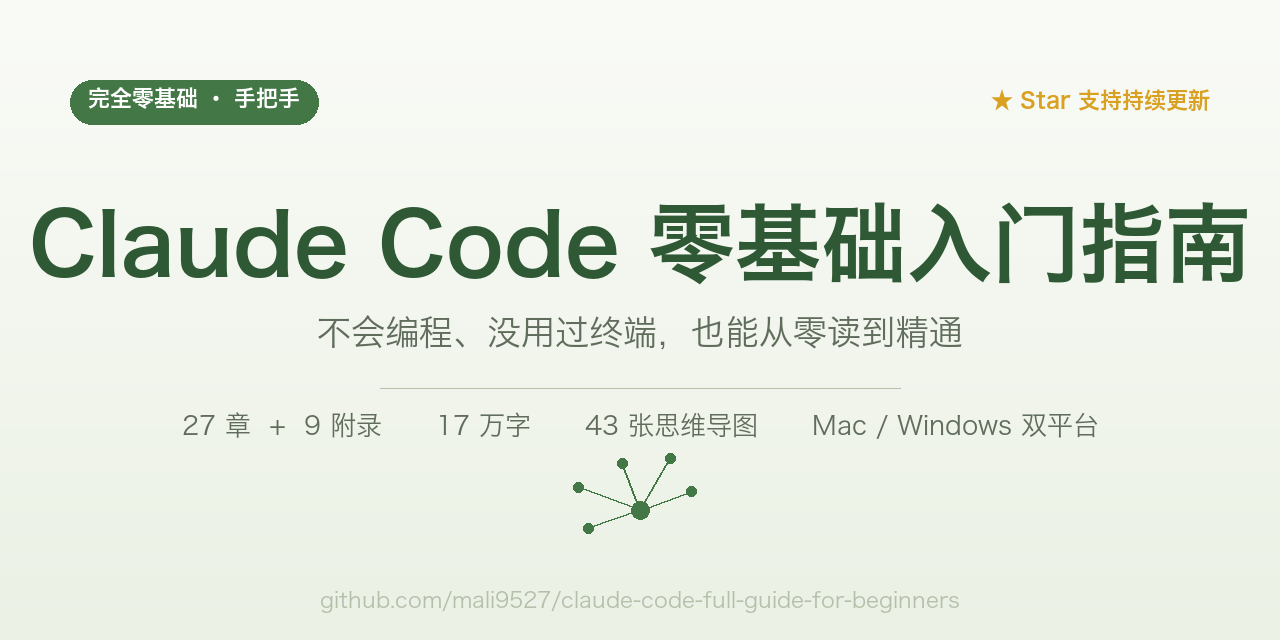
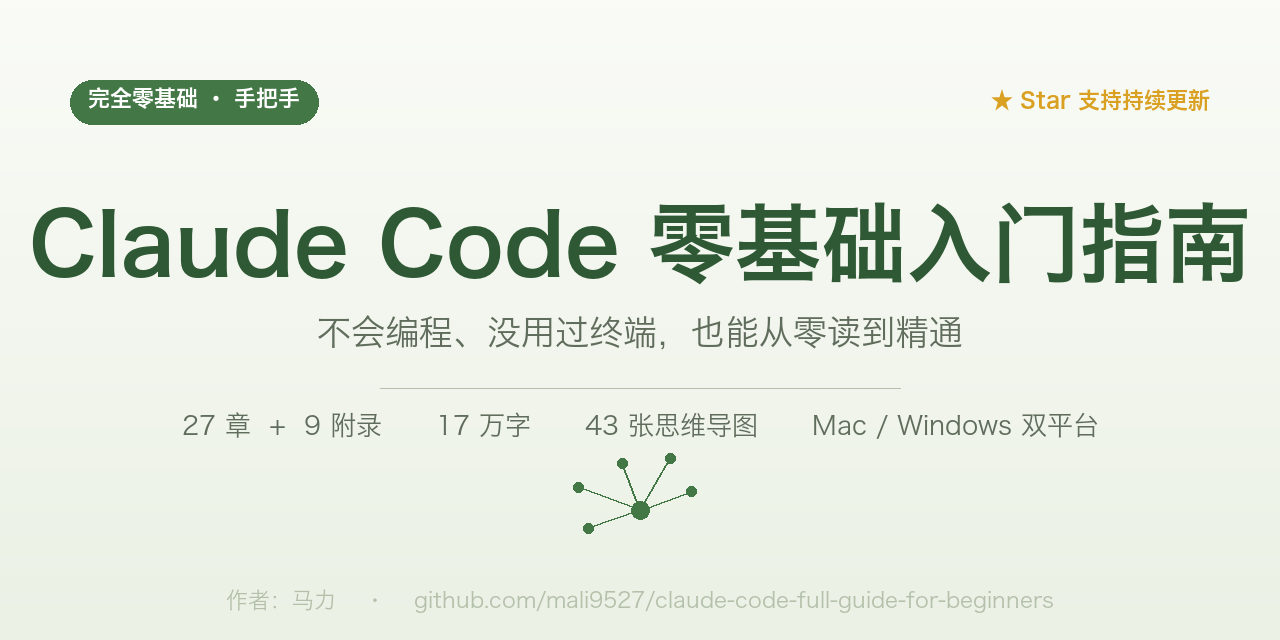
feat(author): 全书布局作者"马力"署名 + 5 处隐性水印
明示署名（4 处）：
- 封面图底部加"作者：马力 · github.com/..."
- 前言开篇 + 前言 §0.B + 前言结尾 三处作者自述
- Ch 27 结尾三行署名块
- 附录 I 延伸阅读结尾作者声明 + 协议提醒

隐性水印（5 处，嵌例子中）：
- Ch 10 信任校准团队场景："张三" → "马力"
- Ch 14 §14.A 团队场景："小明" → "马力"
- Ch 25 坑 2 PR 评审场景："小明" → "马力"
- Ch 25 试点成员列表："张三" → "马力"
- Ch 25 PR 起草负责人："张三" → "马力"

重跑 build_book.py 同步全书.md；修订日志记水印策略 + 清单。
如需一次性列出全部水印位：grep 马力 manuscript/。

Changed region(s): [[0.25, 0.9062, 0.8125, 0.9688]]

diff --git a/修订日志.md b/修订日志.md
@@ -1,5 +1,45 @@
 # 修订日志
 
+## 2026-04-21（续 3）— 作者署名 + 水印分布
+
+**本次主题**：把"马力"作为作者名在全书多处稳定出现；一部分是明示署名，一部分是隐性嵌入，便于识别抄袭
+
+### 明示署名（4 处）
+
+- **封面图** `assets/cover.png` 底部："作者：马力 · github.com/..."（重跑 `/tmp/gen_cover.py`）
+- **前言开篇**（00-本书怎么读.md）：首句加"我是**马力**，这本书的作者。"
+- **前言结尾**：末句加"——马力，2026 年春"
+- **Ch 27 下一步路线结尾**：三行署名（马力 / 2026 年春 / li.ma.aria@gmail.com）
+- **附录 I 延伸阅读结尾**：双行作者声明（GitHub + 邮箱 + 协议）
+- **README "关于这本书"首行**（已在前一次 commit）
+
+### 隐性水印（5 处，嵌入示例名称里）
+
+- Ch 10 §信任校准·团队：把"张三觉得…"的"张三" → "马力"
+- Ch 14 §14.A 团队场景：把"小明加一条…"的"小明" → "马力"
+- Ch 25 §坑 2：把"小明觉得 vibe review 就够…"的"小明" → "马力"
+- Ch 25 §试点计划：把"试点成员：张三、李四"的"张三" → "马力"
+- Ch 25 §PR 起草：把"张三负责起草" → "马力负责起草"
+
+### 文档同步
+
+- LICENSE 版权行 `mali9527` → `马力 (Ma Li) · GitHub: @mali9527 · Contact: ...`
+- LICENSE 商用授权段落同步作者中文名
+- 个人主页风格：仓库 README 的"关于本书"首行加"作者：马力（@mali9527 · li.ma.aria@gmail.com）"
+- 用户记忆 `~/.claude/projects/.../memory/user_profile.md` 新建
+
+### 水印策略说明
+
+- 明示署名容易被粗暴替换掉，但**改一次还能辨认**；隐性水印嵌在对话/例子里，很难在"保留可读性"的前提下全部清理
+- 4 处示例名替换都选的是"类泛用虚构人名"（小明 / 张三），改完仍然自然、不影响阅读
+- 全书通过 `grep 马力 manuscript/` 可以一次性列出所有水印位
+
+### 重跑
+
+- `/tmp/build_book.py` 生成最新 `全书.md`（445.8 KB），水印全部同步进合订版
+
+**决策依据**：用户 2026-04-21 要求"在文中的一些合适的地方植入『马力』的名字，以便在别人抄袭的时候，能够识别这是我写的"。
+
 ## 2026-04-21（续 2）— 前言引入"全书大图"（MM-08 重构）
 
 **本次主题**：替换 MM-08 的内容——从"前言章首导览"改为整本书的**全局大图**，让首次访问的读者在前言一眼就看清全书脉络

diff --git a/manuscript/part6-融入日常/25-团队协作基础.md b/manuscript/part6-融入日常/25-团队协作基础.md
@@ -142,7 +142,7 @@ mindmap
 
 ### 坑 2：每个人标准不一致
 
-**典型场景**：小明觉得"vibe review 就够"，小红每次都细审——同一段 PR，两人给的反馈完全不同步。
+**典型场景**：马力觉得"vibe review 就够"，小红每次都细审——同一段 PR，两人给的反馈完全不同步。
 
 **后果**：
 - 评审结论不统一
@@ -312,11 +312,11 @@ Co-authored-by: Claude <claude@anthropic.com>
 # 团队 Claude Code 接入计划
 
 ## 第 1 周（4/22-4/28）试点
-- 试点成员：张三、李四
+- 试点成员：马力、李四
 - 他们各自读本书 Part 1-2
 
 ## 第 2 周（4/29-5/5）CLAUDE.md v0.1
-- 5/2 前出初版 PR（张三负责起草）
+- 5/2 前出初版 PR（马力负责起草）
 - 全员 5/4 前 review + 合并
 
 ...

diff --git a/manuscript/part3-深度概念/14-写好你的CLAUDE.md.md b/manuscript/part3-深度概念/14-写好你的CLAUDE.md.md
@@ -451,7 +451,7 @@ def create_user(email, name):
 
 ### 问题：不同人的习惯冲突
 
-小明加一条"函数必须有文档字符串"，小红觉得"短函数没必要"。两个人来回改 CLAUDE.md 就打架了。
+马力加一条"函数必须有文档字符串"，小红觉得"短函数没必要"。两个人来回改 CLAUDE.md 就打架了。
 
 ### 解决方案 1：CLAUDE.md 作为**团队共识**
 

diff --git a/manuscript/part2-日常使用/10-信任校准.md b/manuscript/part2-日常使用/10-信任校准.md
@@ -321,7 +321,7 @@ AI 写正则**经常漏边缘情况**。
 
 ### 问题
 
-不同人的"什么该细审"不一样——张三觉得一眼过的东西，李四可能会翻车。
+不同人的"什么该细审"不一样——马力觉得一眼过的东西，李四可能会翻车。
 
 ### 解决方案 1：写一份团队审核约定
 

diff --git a/manuscript/附录/I-延伸阅读.md b/manuscript/附录/I-延伸阅读.md
@@ -224,6 +224,9 @@ mindmap
 
 **祝阅读愉快，用得顺手**。
 
+> 本书作者：**马力** · [@mali9527](https://github.com/mali9527) · li.ma.aria@gmail.com
+> 版权所有 © 2026 马力（Ma Li），以 [CC BY-NC-SA 4.0](../../LICENSE) 协议开源。转载 / 翻译 / 引用请保留本署名。
+
 
 ---
 
